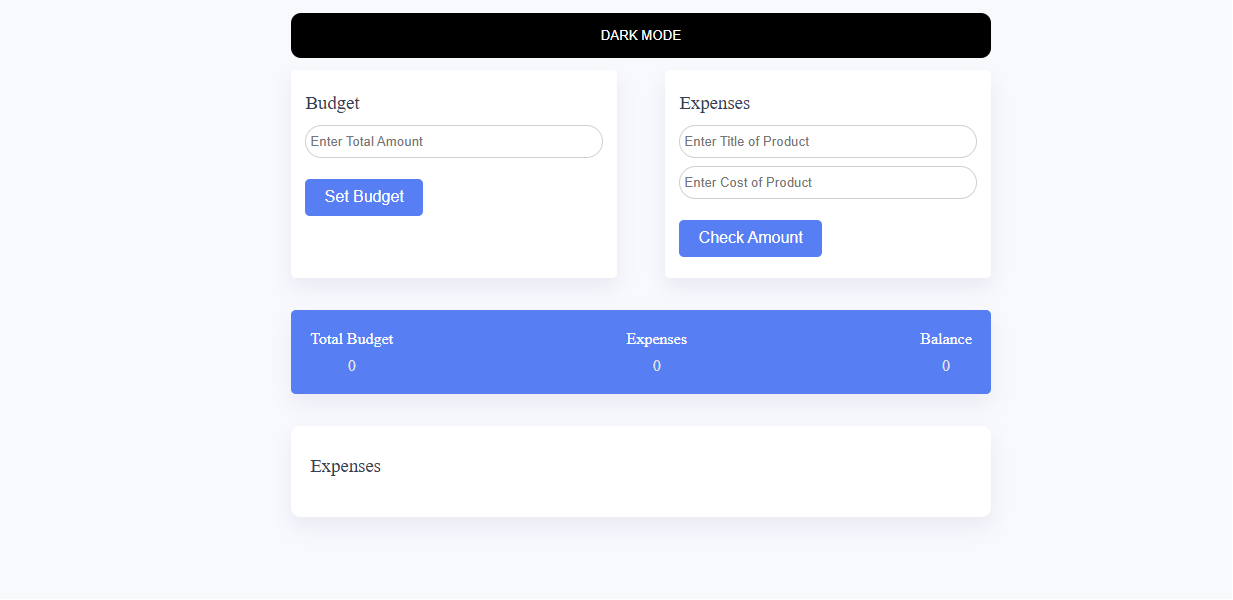
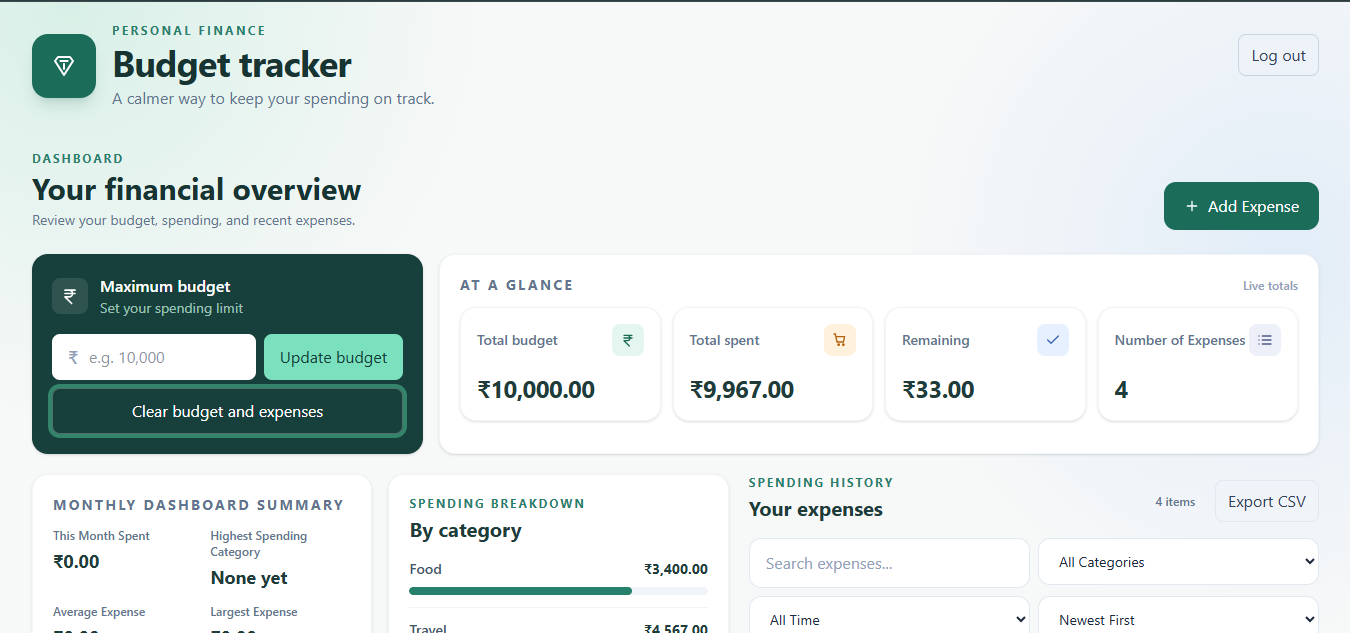
A porject added

diff --git a/src/constants/index.js b/src/constants/index.js
@@ -225,16 +225,20 @@ const projects = [
       "E-commerce website that allows users to browse and purchase products online. It features a clean and modern design, easy navigation, and a secure checkout process.",
     tags: [
       {
-        name: "html",
+        name: "React js",
         color: "blue-text-gradient",
       },
       {
-        name: "css",
+        name: "Express js",
         color: "green-text-gradient",
       },
       {
-        name: "javascript",
+        name: "Node js",
         color: "pink-text-gradient",
+      },
+        {
+        name: "Mongo db",
+        color: "purple-text-gradient",
       },
     ],
     image: forever,
@@ -246,22 +250,52 @@ const projects = [
     description:
       "Web application that allows users to edit and manipulate images online. It features a user-friendly interface, a wide range of editing tools, and the ability to save and share edited images.",
     tags: [
-      {
-        name: "html",
+          {
+        name: "React js",
         color: "blue-text-gradient",
       },
       {
-        name: "css",
+        name: "Express js",
         color: "green-text-gradient",
       },
       {
-        name: "javascript",
+        name: "Node js",
         color: "pink-text-gradient",
+      },
+        {
+        name: "Mongo db",
+        color: "purple-text-gradient",
       },
     ],
     image: imagify,
     source_code_link: "https://github.com/ADEEB172/Imagify",
     live_demo_link: "https://imagify-two-tau.vercel.app",
+  },
+   {
+    name: " Budget Tracker",
+    description:
+  "A full-stack budget management web application designed to help users track their budget and daily expenses in one place. Users can set a total budget, add, edit, and delete expenses, monitor total spending, and view their remaining balance through a clean and responsive dashboard.",
+    tags: [
+          {
+        name: "React js",
+        color: "blue-text-gradient",
+      },
+      {
+        name: "Express js",
+        color: "green-text-gradient",
+      },
+      {
+        name: "Node js",
+        color: "pink-text-gradient",
+      },
+        {
+        name: "Mongo db",
+        color: "purple-text-gradient",
+      },
+    ],
+    image: budget,
+    source_code_link: "https://github.com/ADEEB172/Budget-Tracker",
+    live_demo_link: "https://bachat-two.vercel.app",
   },
   {
     name: "A Watch Website",
@@ -307,28 +341,6 @@ const projects = [
     source_code_link:
       "https://github.com/ADEEB172/pokemon-explorer/tree/main/pokemon-app",
     live_demo_link: "https://pokemon-app-one-nu.vercel.app/",
-  },
-  {
-    name: "Budget Tracker App",
-    description:
-      "A simple and effective budget tracking application that helps users manage their expenses and income.",
-    tags: [
-      {
-        name: "html",
-        color: "blue-text-gradient",
-      },
-      {
-        name: "css",
-        color: "green-text-gradient",
-      },
-      {
-        name: "javascript",
-        color: "pink-text-gradient",
-      },
-    ],
-    image: budget,
-    source_code_link: "https://github.com/ADEEB172/Budget-App",
-    live_demo_link: "https://budget-app-psi-five.vercel.app/",
   },
 ];
 

diff --git a/src/assets/index.js b/src/assets/index.js
@@ -32,9 +32,9 @@ import tesla from "./company/tesla.png";
 
 import watch from "./watch.png";
 import pokemon from "./pokemon.png";
-import budget from "./budget.png";
 import forever from "./forever.png";
 import imagify from "./imagify.png";
+import budget from "./budget.png";
 export {
   logo,
   backend,
@@ -67,7 +67,7 @@ export {
   tesla,
   watch,
   pokemon,
-  budget,
   forever,
   imagify,
+  budget,
 };
